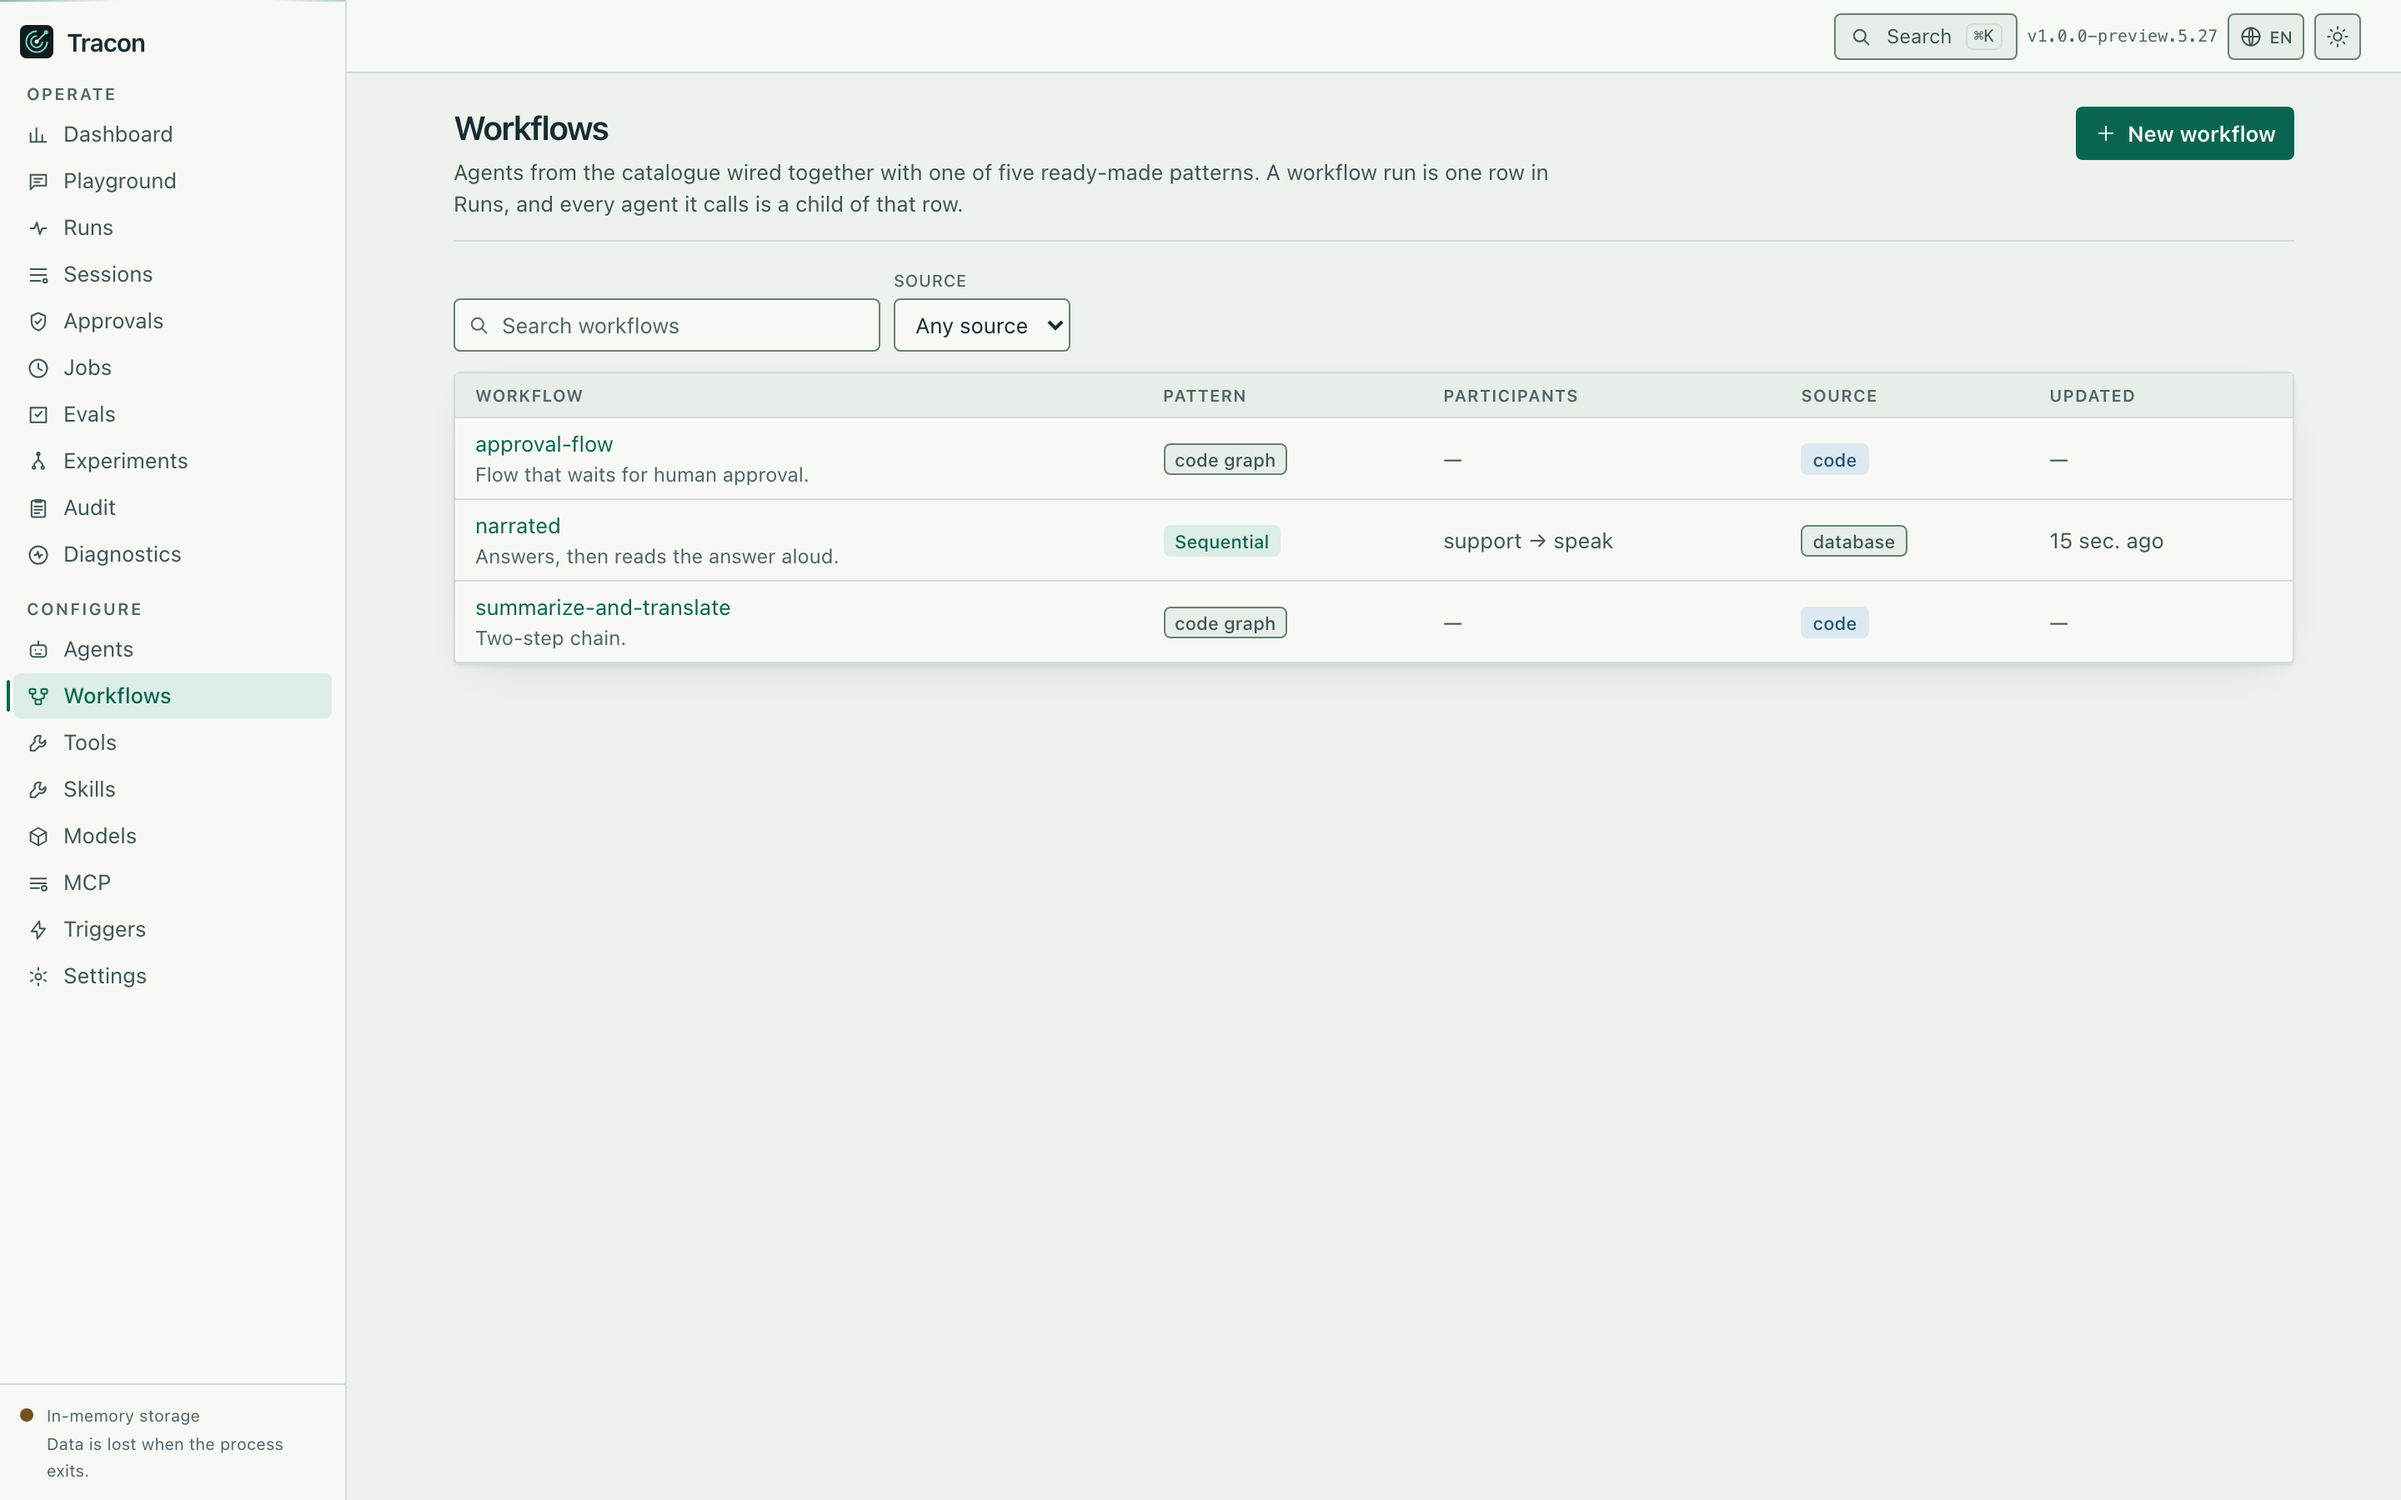
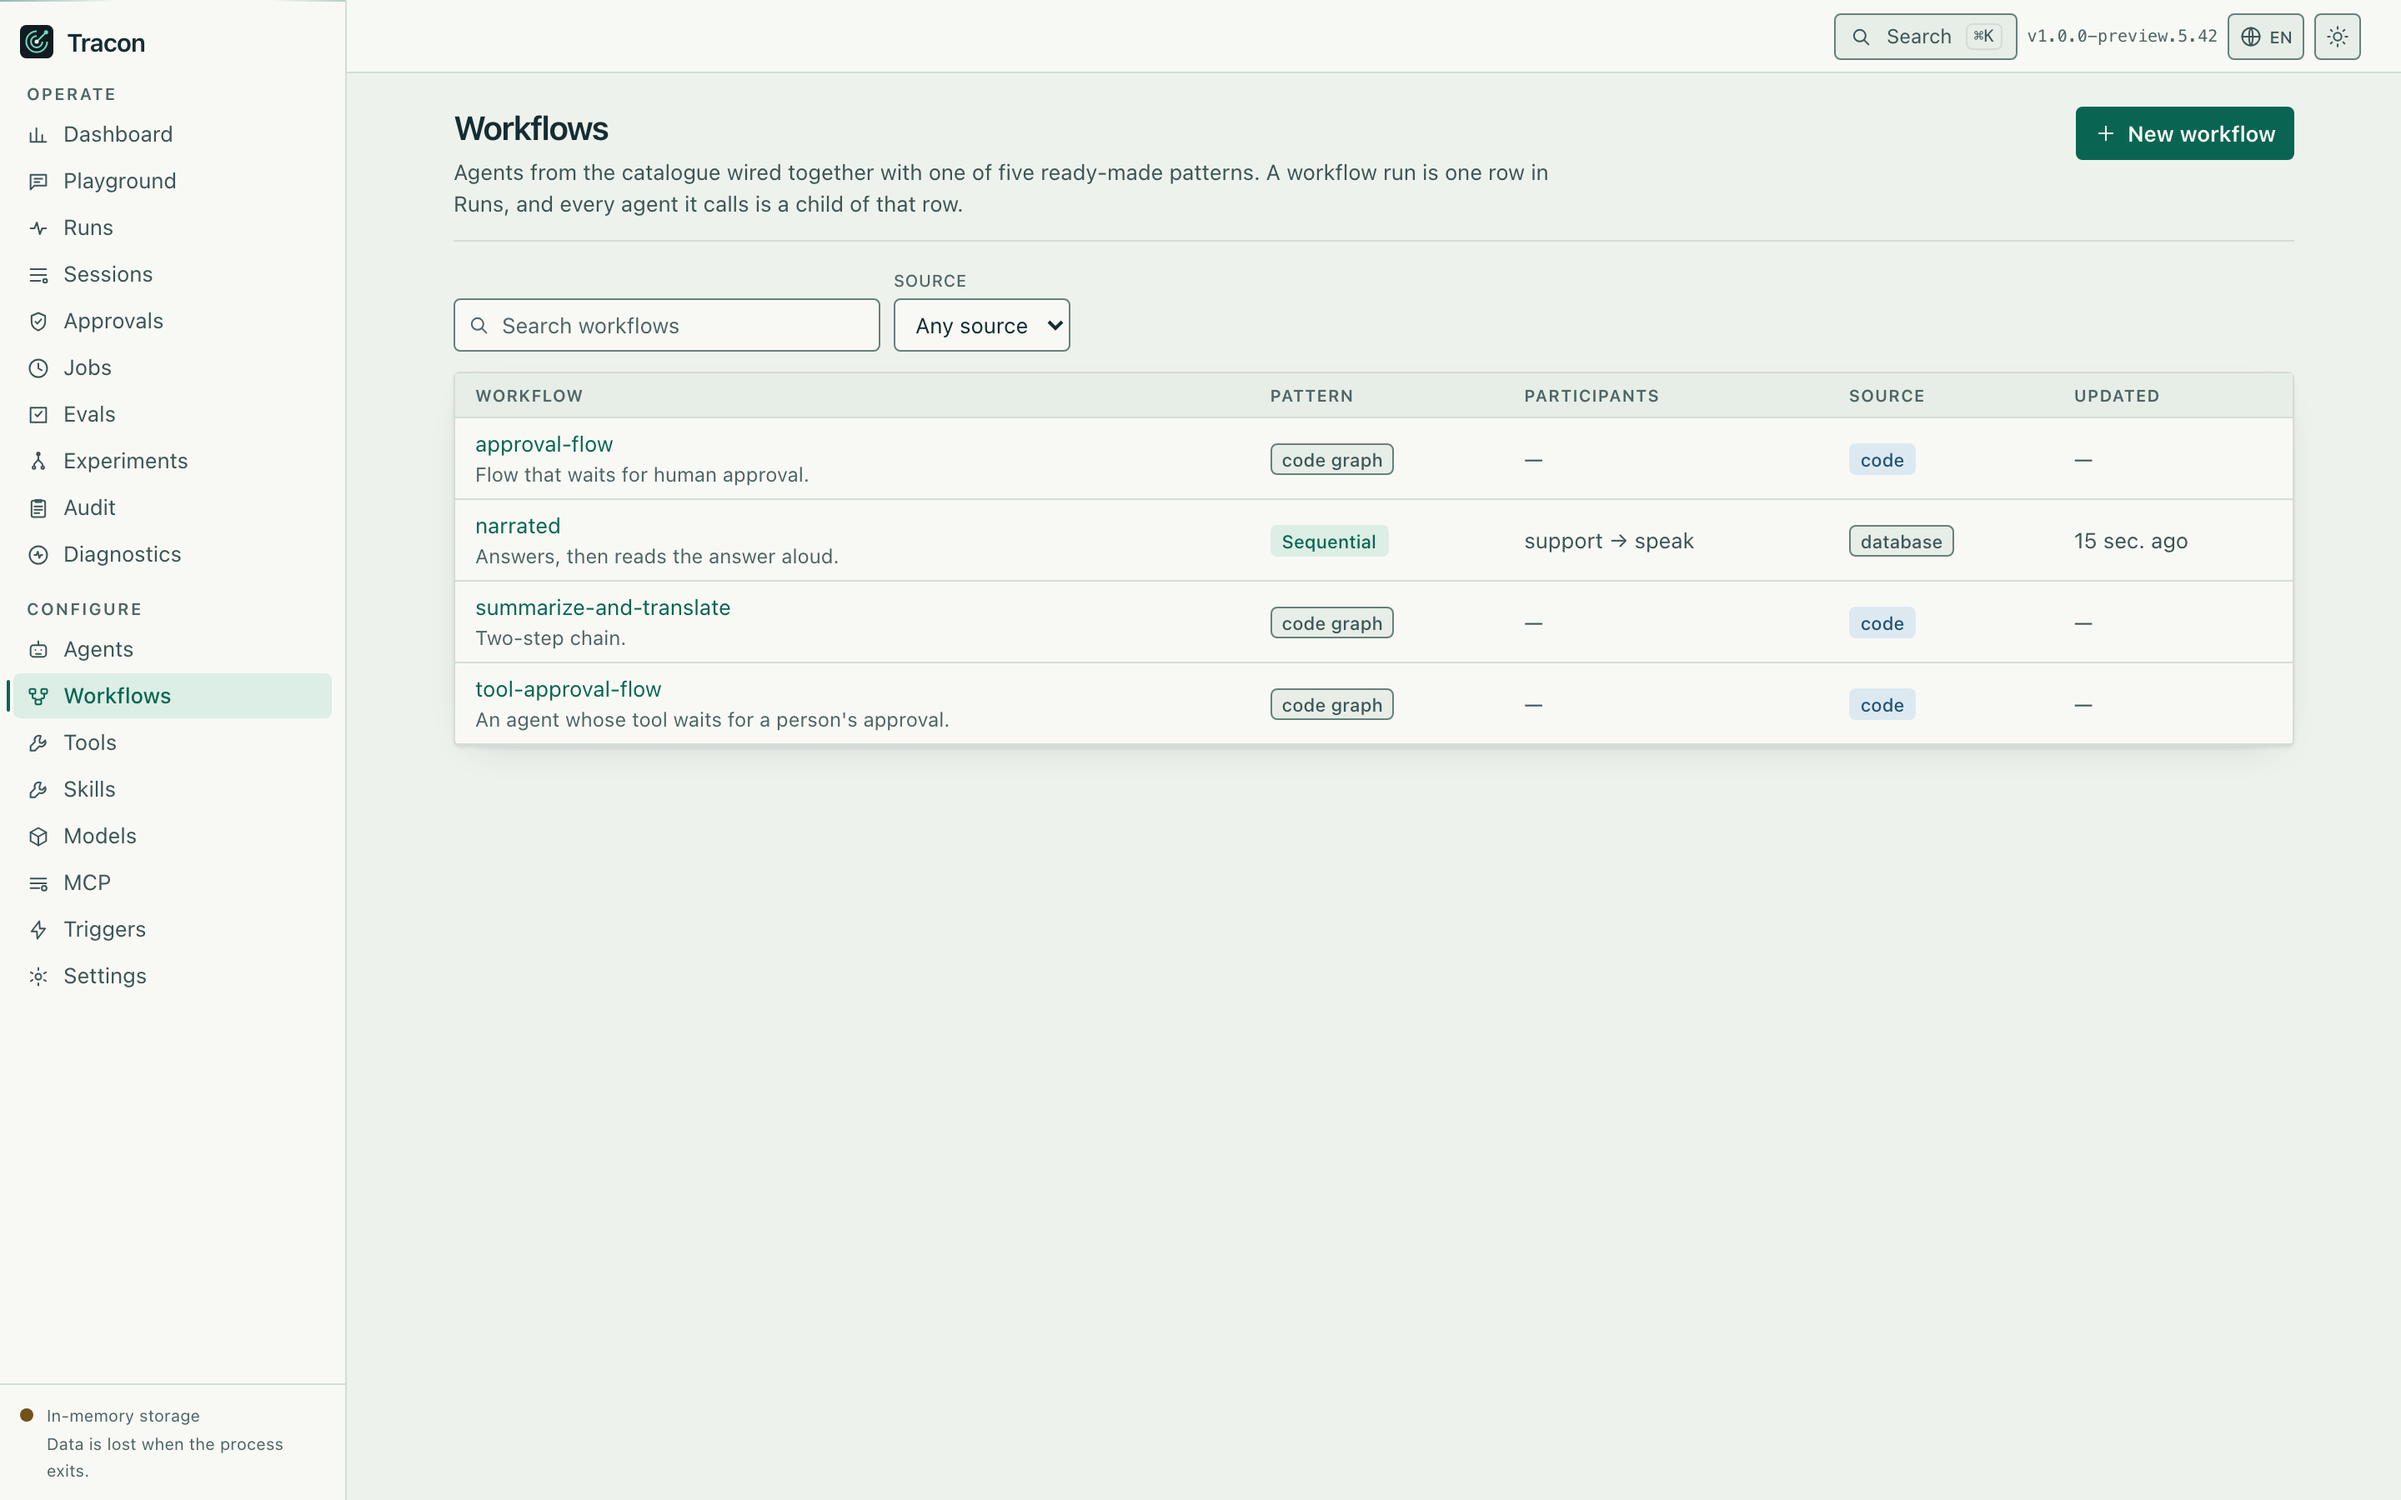
docs: site gates green — answer rules on the workflow answers page, console card, screenshots

diff --git a/tests/Tracon.Ui.E2ETests/Infrastructure/UiHost.cs b/tests/Tracon.Ui.E2ETests/Infrastructure/UiHost.cs
@@ -256,7 +256,7 @@ internal sealed class UiHost : IAsyncDisposable
                 static services => Microsoft.Agents.AI.Workflows.AgentWorkflowBuilder.BuildSequential(
                     "tool-approval-flow",
                     [services.GetWorkflowAgent("tool-approval-flow", "approval-agent")]),
-                "An agent whose tool waits for a person's approval (phase 230).")
+                "An agent whose tool waits for a person's approval.")
             .AddWorkflow(
                 "approval-flow",
                 static _ => ApprovalWorkflow.Build(),

diff --git a/docs-site/src/content/docs/concepts/workflow-answers.md b/docs-site/src/content/docs/concepts/workflow-answers.md
@@ -1,13 +1,14 @@
 ---
 title: Answering a workflow
-description: How an answer to a waiting workflow is audited and recorded, and how a one-answer workflow follows a repeated answer and refuses a different one.
+description: How an answer to a waiting workflow is audited and recorded, how a one-answer workflow treats a repeat, and how to answer a tool call that waits for approval.
 sidebar:
   order: 6
 ---
 
 What happens when a person answers a workflow that waits for input, and what happens when
 the same request gets a second answer? This page covers the two response modes, the audit
-entry and the record every answer leaves, and the cases where an answer can be given again.
+entry and the record every answer leaves, the cases where an answer can be given again, and
+the answer to an agent's tool call that waits for approval.
 How a workflow asks, and how an answer resumes it, is in
 [Asking a human](/concepts/workflows/#asking-a-human).
 
@@ -66,6 +67,62 @@ When a process stops while a streamed `SingleAnswer` run is going, that run stay
 `Running` run whose heartbeat stopped, and it reads no `Queued` run. Turn it on where a
 one-answer request must stay answerable after a crash.
 :::
+
+## A tool that asks for approval
+
+An agent in a workflow can call a tool that
+[needs approval](/concepts/governance/#approvals). Where the pattern hosts the agent — all
+five stored patterns when the definition lists `agentNames`, and a code graph that binds
+the agent with `GetWorkflowAgent` — the workflow stops instead of failing. The step's run
+closes `AwaitingApproval`, the workflow run closes `AwaitingInput`, and the request has the
+form `ToolApproval`. Its `prompt` names the tool and adds what your
+[approval presenter](/concepts/governance/#approvals) says about the call; the arguments
+are not copied into it.
+
+```mermaid
+flowchart LR
+    accTitle: A tool approval inside a workflow
+    accDescr: An agent in a workflow calls a tool that needs approval. The workflow closes as awaiting input with a ToolApproval request. The answer is audited, optionally saved as a rule, and the workflow continues on a new run that runs the tool once or hands the agent the refusal.
+    CALL["agent calls a tool<br/>that needs approval"] --> WAIT["workflow closes AwaitingInput<br/>request form: ToolApproval"]
+    WAIT --> ANS["POST .../respond<br/>approved, text, remember"]
+    ANS --> AUD["approval.decision audited<br/>rule saved when remembered"]
+    AUD --> NEW["a NEW run continues<br/>the tool runs once, or the agent reads the refusal"]
+```
+
+Answer it on the same endpoint as any other request:
+
+```bash
+curl -X POST "$TRACON/api/workflows/runs/$RUN/respond" \
+  -H "Content-Type: application/json" \
+  -d '{"requestId": "'"$REQUEST"'", "approved": true, "text": "checked with the customer", "remember": true}'
+```
+
+| Field | Meaning |
+|---|---|
+| `approved` | Required. `true` runs the tool; `false` refuses it, and the agent reads the refusal |
+| `text` | Optional reason. The agent reads it |
+| `remember` | Optional. With `approved: true`, also saves a rule: this agent is not asked again for this tool |
+
+The answer carries a decision and nothing else. It cannot name a tool call, because the
+call comes from the request the workflow recorded: a `data` value is refused with `400`, and
+so is `remember` together with `approved: false`, or on a request of any other form. The
+decision is written to the audit trail as `approval.decision` before the workflow
+continues, and an entry that cannot be written refuses the answer and leaves the
+workflow waiting. A rule saved with `remember` is the same rule the run-request path saves,
+for the agent that asked and the tool; a request that cannot name its agent (an agent
+Tracon did not wrap) cannot be remembered.
+
+The tool runs once, in the new run the answer opens, and it runs in whatever process takes
+the answer: the call is in the checkpoint, so a restart in between loses nothing. With
+`Concurrent`, two agents can ask at once: each approval is a request of its own, answered on
+its own, and the run that carries the first answer waits on the second. A request nobody
+answers runs out like any other ([Workflow requests and time
+limits](/concepts/workflow-requests/#giving-a-request-a-time-limit)); the step that waited
+closes `Failed` with the workflow.
+
+An agent that a step's agent calls as a sub-agent still cannot ask: its approval is a tool
+result the step's model reads, as in [Agents calling
+agents](/concepts/agents/#agents-calling-agents).
 
 ## What every answer leaves behind, in either mode
 

diff --git a/docs-site/src/content/docs/concepts/workflows.md b/docs-site/src/content/docs/concepts/workflows.md
@@ -900,49 +900,10 @@ In the default response mode, a second answer to the same request opens a second
 
 ### A tool that asks for approval
 
-An agent in a workflow can call a tool that
-[needs approval](/concepts/governance/#approvals). Where the pattern hosts the agent — all
-five stored patterns when the definition lists `agentNames`, and a code graph that binds
-the agent with `GetWorkflowAgent` — the workflow stops instead of failing. The step's run
-closes `AwaitingApproval`, the workflow run closes `AwaitingInput`, and the request has the
-form `ToolApproval`. Its `prompt` names the tool and adds what your
-[approval presenter](/concepts/governance/#approvals) says about the call; the arguments
-are not copied into it.
-
-Answer it on the same endpoint as any other request:
-
-```bash
-curl -X POST "$TRACON/api/workflows/runs/$RUN/respond" \
-  -H "Content-Type: application/json" \
-  -d '{"requestId": "'"$REQUEST"'", "approved": true, "text": "checked with the customer", "remember": true}'
-```
-
-| Field | Meaning |
-|---|---|
-| `approved` | Required. `true` runs the tool; `false` refuses it, and the agent reads the refusal |
-| `text` | Optional reason. The agent reads it |
-| `remember` | Optional. With `approved: true`, also saves a rule: this agent is not asked again for this tool |
-
-The answer carries a decision and nothing else. It cannot name a tool call, because the
-call comes from the request the workflow recorded: a `data` value is refused with `400`, and
-so is `remember` together with `approved: false`, or on a request of any other form. The
-decision is written to the audit trail as `approval.decision` before the workflow
-continues, and an entry that cannot be written refuses the answer and leaves the
-workflow waiting. A rule saved with `remember` is the same rule the run-request path saves,
-for the agent that asked and the tool; a request that cannot name its agent (an agent
-Tracon did not wrap) cannot be remembered.
-
-The tool runs once, in the new run the answer opens, and it runs in whatever process takes
-the answer: the call is in the checkpoint, so a restart in between loses nothing. With
-`Concurrent`, two agents can ask at once: each approval is a request of its own, answered on
-its own, and the run that carries the first answer waits on the second. A request nobody
-answers runs out like any other ([Workflow requests and time
-limits](/concepts/workflow-requests/#giving-a-request-a-time-limit)); the step that waited
-closes `Failed` with the workflow.
-
-An agent that a step's agent calls as a sub-agent still cannot ask: its approval is a tool
-result the step's model reads, as in [Agents calling
-agents](/concepts/agents/#agents-calling-agents).
+Where the pattern hosts the agent, a tool that needs approval stops the workflow instead of
+failing it: the request has the form `ToolApproval` and is answered with `approved`, a
+reason, and optionally `remember`. [Answering a tool
+approval](/concepts/workflow-answers/#a-tool-that-asks-for-approval) has the rules.
 
 ### One answer per request
 

diff --git a/docs-site/src/content/docs/ui.md b/docs-site/src/content/docs/ui.md
@@ -250,6 +250,14 @@ playground does — one field per parameter, Run disabled while a required one i
 and sends the values with the message. The editor keeps the schema across a save but does
 not change it yet; create or change it with `PUT /api/workflows/{name}`.
 
+When a run waits for a person, a card under the run panel asks for the answer the request
+needs: a yes or no, text, JSON, or a plan to approve or send back. A tool call that waits
+for approval shows the tool and what your approval presenter says about the call; the card
+has **Approve** and **Reject**, a reason the agent reads, and *Do not ask again for this
+agent and tool*, which saves a rule when you approve (see [A tool that asks for
+approval](/concepts/workflow-answers/#a-tool-that-asks-for-approval)). The tenant-wide list of
+waiting requests is the *Workflow requests* panel of the Approvals screen.
+
 <a class="ui-shot" href="/screenshots/workflow-editor.png"><img src="/screenshots/workflow-editor.png" alt="The workflow editor with an agent step, a function step and the function's settings field" width="2880" height="1800" loading="lazy" decoding="async" /></a>
 
 The editor builds the chain. *Add an agent* and *Add a function* pick from the agents in

diff --git a/docs-site/src/content/docs/concepts/governance.md b/docs-site/src/content/docs/concepts/governance.md
@@ -339,7 +339,7 @@ the form `ToolApproval`; the answer goes to
 `POST /api/workflows/runs/{runId}/respond` with `approved`, an optional reason in `text`, and
 optionally `remember`. The decision is recorded as `approval.decision`, like the other two, and
 saved as a rule the same way. See [A tool that asks for
-approval](/concepts/workflows/#a-tool-that-asks-for-approval).
+approval](/concepts/workflow-answers/#a-tool-that-asks-for-approval).
 
 Deciding either way **resumes** the run — the model has to see a result or a refusal
 and continue. And the decision opens a **new** run; the one that stopped is never

diff --git a/docs-site/src/content/docs/concepts/workflow-requests.md b/docs-site/src/content/docs/concepts/workflow-requests.md
@@ -19,7 +19,7 @@ the *Workflow requests* panel of the Approvals screen. Each item is a
 [pending request](/http-api/schemas/workflowpendingrequest/) with five more fields. A request
 whose `form` is `ToolApproval` is an agent's tool call waiting for a person; the Approvals
 screen lists it here with the other requests, and the console answers it on the workflow's
-card ([A tool that asks for approval](/concepts/workflows/#a-tool-that-asks-for-approval)):
+card ([A tool that asks for approval](/concepts/workflow-answers/#a-tool-that-asks-for-approval)):
 
 | Field | Meaning |
 |---|---|
